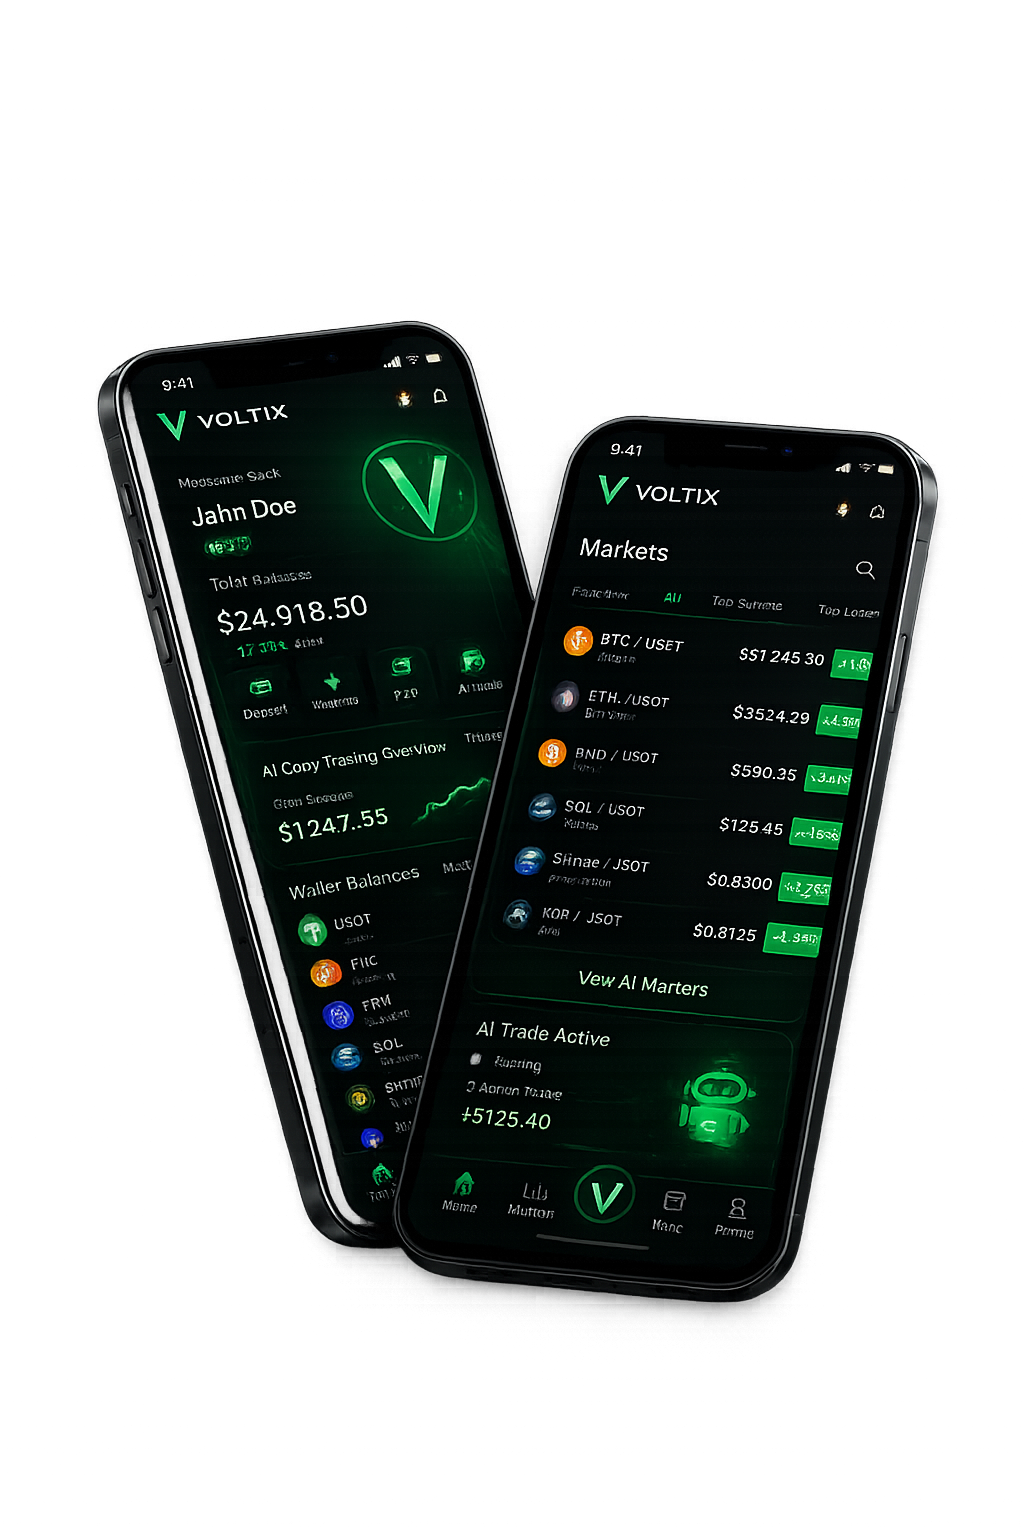
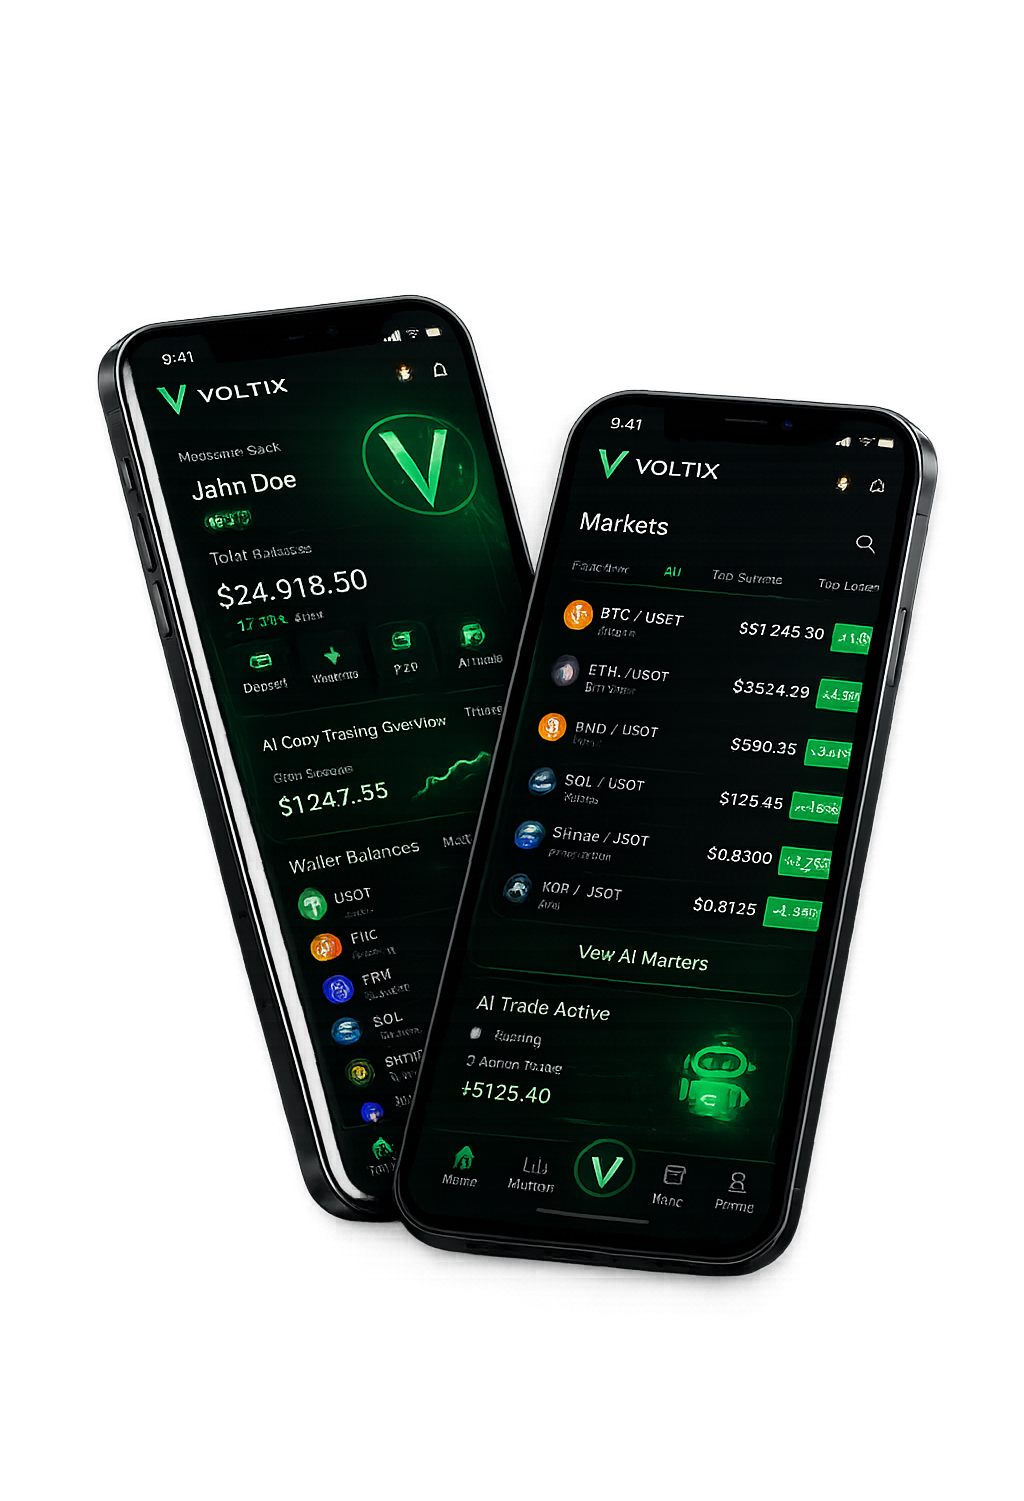
yfdr

diff --git a/app/globals.css b/app/globals.css
@@ -125,13 +125,14 @@ button { -webkit-tap-highlight-color: transparent; }
 .voltix-phone-stage {
   display: grid;
   width: min(40rem, 96vw);
-  margin: 14px auto 12px;
+  margin: 16px auto;
   place-items: center;
 }
 
 .voltix-hero-mobile-image {
   display: block;
-  width: min(100%, 420px);
+  width: 90%;
+  max-width: 430px;
   height: auto;
   object-fit: contain;
   filter: drop-shadow(0 2rem 4rem rgba(0, 0, 0, .52)) drop-shadow(0 0 2.2rem rgba(24, 255, 138, .18));
@@ -230,12 +231,12 @@ button { -webkit-tap-highlight-color: transparent; }
 
   .voltix-phone-stage {
     width: 100%;
-    margin: 12px auto 12px;
+    margin: 16px auto;
   }
 
   .voltix-hero-mobile-image {
-    width: 85%;
-    max-width: 420px;
+    width: 90%;
+    max-width: 430px;
   }
 
   .voltix-install-grid {
